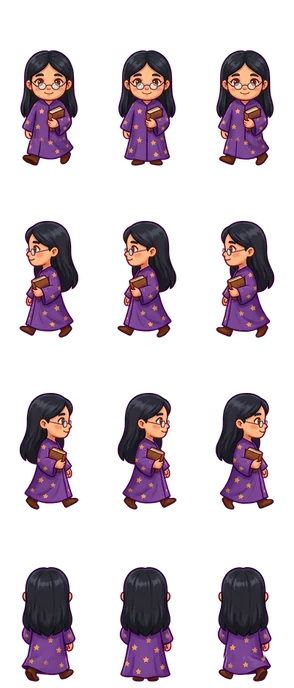
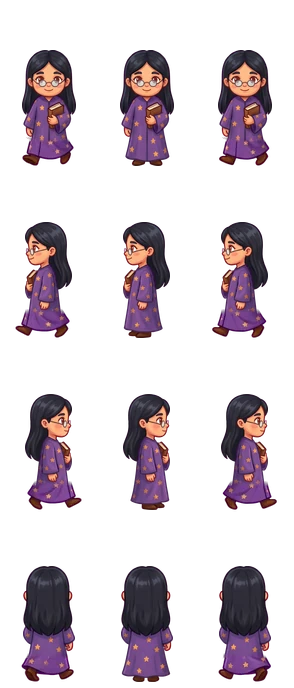
31.10: Stand Wenna still, as Dask, from a drawing of her with her feet together
The owner, on the report: her side views still stride, and D147 holds for every figure.
Her sheet is made from a drawing of her standing still in the four views: Gemini 3 Pro
Image, figure-wenna-standing.md, one image, no retry; 52 of the chapter's 70.

The model drew both side views facing right, so `figures.py --standing` turns the second
over for the row that faces left (`-left` in STANDING_DRAWN). Her step frames keep their
legs, and export_scene.figures leaves her sheet alone, as Dask's.

Checks: 1474 Python, 239 Vitest, 270 browser tests, one skipped.

diff --git a/tools/art/figures.py b/tools/art/figures.py
@@ -127,8 +127,13 @@ LEGS = 0.2
 FLOATING = {"eldra": (4, 8)}
 FLOATING_SWAY = 3
 #: The figures whose sheet is made from a drawing of them standing still (D147), and
-#: the way each view of the drawing faces, from left to right.
-STANDING_DRAWN = {"dask": ("down", "right", "left", "up")}
+#: the way each view of the drawing faces, from left to right; a view named `-left`
+#: faces right in the drawing and is turned over for the row that faces left, where
+#: the model drew the same side twice.
+STANDING_DRAWN = {
+    "dask": ("down", "right", "left", "up"),
+    "wenna": ("down", "right", "-left", "up"),
+}
 #: How much of a floating figure, from the bottom up, is the dress that grows.
 DRESS = 0.4
 
@@ -619,8 +624,11 @@ def make_standing(name: str, drawing: Path) -> Path:
     top, bottom = int(rows[0]), int(rows[-1])
     scale = (bottom - top + 1) / views[0].height
     out = sheet.copy()
-    for view, way in zip(views, order, strict=True):
+    for view, named in zip(views, order, strict=True):
+        way = named.lstrip("-")
         small = view.resize((round(view.width * scale), round(view.height * scale)), Image.LANCZOS)
+        if named.startswith("-"):
+            small = small.transpose(Image.FLIP_LEFT_RIGHT)
         y = ways.index(way) * fh + bottom + 1 - small.height
         x = fw + (fw - small.width) // 2
         out.paste((0, 0, 0, 0), (fw, ways.index(way) * fh, 2 * fw, (ways.index(way) + 1) * fh))

diff --git a/tools/art/export_scene.py b/tools/art/export_scene.py
@@ -1008,9 +1008,9 @@ later, like the rest of it.
   `tools/art/sprites.py` and put together by `tools/art/export_scene.py`,
   Ilda's sized and turned by Wenna's, a figure of her build, and Baro's by
   Dask's.
-- Dask's standing frames are Gemini's drawing of him standing still in the four
-  views (`figure-dask-standing.md`), cut by `tools/art/figures.py --standing`, and
-  his walking frames are made from them.
+- Dask's and Wenna's standing frames are Gemini's drawings of them standing still in
+  the four views (`figure-dask-standing.md`, `figure-wenna-standing.md`), cut by
+  `tools/art/figures.py --standing`, and their walking frames are made from them.
 - The wizard's girl and Nuri's are Gemini's edits of those sheets
   (`figure-wizard-girl.md`, `figure-nuri-girl.md`), and the wizard's
   casting frames are Gemini's edits of the wizard's two sheets

diff --git a/tools/art/prompts/figure-wenna-standing.md b/tools/art/prompts/figure-wenna-standing.md
@@ -1,0 +1,9 @@
+---
+candidate: figures
+service: gemini
+model: gemini-3-pro-image
+image: art/raw/demo-src/demo-wenna.png
+aspect_ratio: 16:9
+image_size: 2K
+---
+The image given shows Wenna, the school's librarian, in the game's style, walking. Draw her again, the same woman with the same face, the same long straight black hair, the same small round spectacles, the same long purple robe with its gold stars, the same brown shoes and the same book, standing perfectly still. Draw four figures in one row, evenly spaced, each alone, with wide empty gaps between them, on a flat pure magenta (#FF00FF) background. First figure: facing the viewer. Second figure: facing to the left, seen from the side. Third figure: facing to the right, seen from the side. Fourth figure: her back to the viewer. In every figure she stands with her feet together, side by side, both flat on the ground and her weight on both, no step, no foot forward and no foot in the air, her robe falling straight; she holds the book in one arm against her chest, as in the image given. Every figure the same size, full body with the feet, standing on the same baseline; seen in the game's three-quarter top-down view, as in the image given. No shadows, no ground, no text, no numbers, no grid lines, no frames. Style: painted cartoon 2D game art, exactly the style of the image given: bold dark outlines, warm saturated colours, soft painted shading, chunky readable shapes, like a friendly adventure game for children.

diff --git a/content/art/figures/SOURCE.md b/content/art/figures/SOURCE.md
@@ -10,9 +10,9 @@ later, like the rest of it.
   `tools/art/sprites.py` and put together by `tools/art/export_scene.py`,
   Ilda's sized and turned by Wenna's, a figure of her build, and Baro's by
   Dask's.
-- Dask's standing frames are Gemini's drawing of him standing still in the four
-  views (`figure-dask-standing.md`), cut by `tools/art/figures.py --standing`, and
-  his walking frames are made from them.
+- Dask's and Wenna's standing frames are Gemini's drawings of them standing still in
+  the four views (`figure-dask-standing.md`, `figure-wenna-standing.md`), cut by
+  `tools/art/figures.py --standing`, and their walking frames are made from them.
 - The wizard's girl and Nuri's are Gemini's edits of those sheets
   (`figure-wizard-girl.md`, `figure-nuri-girl.md`), and the wizard's
   casting frames are Gemini's edits of the wizard's two sheets

diff --git a/docs/dev/architecture.md b/docs/dev/architecture.md
@@ -2145,6 +2145,6 @@ one overturns stays, marked as superseded.
   waiting is enough only because Dask has two starts.
 - **D147 — A standing figure stands.** Decided 2026-11-07 by the owner. A figure's
   standing frame, in every row of its sheet, has its feet together and its weight on
-  both; a walking frame is made from it (`figures.py`). Dask's sheet is made from a
-  drawing of him standing still in the four views (`figures.py --standing`). Rules
-  out a teacher who stands still with a foot in the air.
+  both; a walking frame is made from it (`figures.py`). Dask's and Wenna's sheets are
+  made from drawings of them standing still in the four views (`figures.py
+  --standing`). Rules out a figure who stands still with a foot in the air.

diff --git a/art/README.md b/art/README.md
@@ -555,7 +555,8 @@ A figure's standing frame, in every row, has its feet together and its weight on
 both (D147): a figure that stands still has no foot in the air. A sheet whose
 standing frames were drawn in a stride is made again from a drawing of the figure
 standing still in the four views (`tools/art/figures.py --standing <figure>
-<drawing>`, its prompt `figure-dask-standing.md`), its step frames keeping their legs.
+<drawing>`, its prompts `figure-dask-standing.md` and `figure-wenna-standing.md`), its
+step frames keeping their legs.
 
 Each friend comes in two sets of colours (D90), `nuri-a`, `nuri-b`,
 `teku-a` and `teku-b`, recoloured from the friends' bases with the colours
